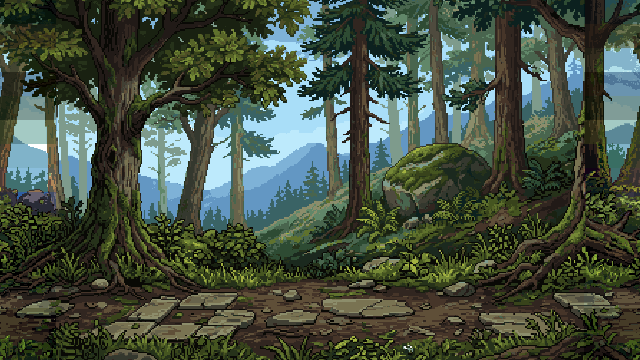
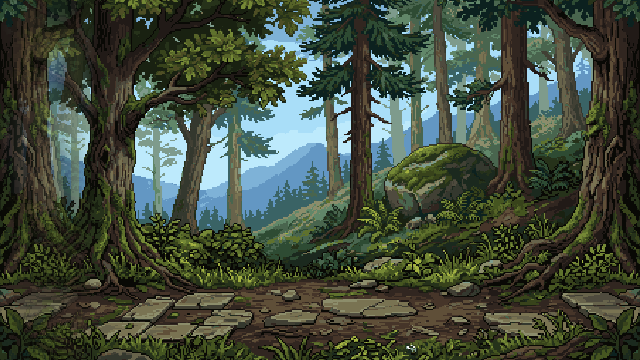
v0.96: каркас главы 2 — скала днём, лес (4 комнаты, боковой лагерь гоблинов), ворота деревни; гоблины-заглушки (воин, прыгун, стрелок), дневной свет
Claude-Session: https://claude.ai/code/session_01NZaKJV7VXAQHZfGwN3MbH5

diff --git a/src/config.js b/src/config.js
@@ -1,7 +1,7 @@
 // Все числа, которые влияют на ощущение боя, собраны здесь.
 // Время — в секундах, расстояния — в пикселях игрового экрана (320×180).
 
-export const VERSION = 'v0.95';
+export const VERSION = 'v0.96';
 
 export const CONFIG = {
   width: 320,
@@ -288,6 +288,31 @@ export const ENEMY_TYPES = {
     heights: ['high', 'mid', 'low'], volleyChance: 0, minDist: 60, maxDist: 170, arrowSpeed: 240,
     guardChance: 0.3, reaction: 0.12,
     colors: { armor: '#5a5a3e', armorDark: '#3b3b2a', tabard: '#3b4a2e', helm: '#b88a68', visor: '#14101e', blade: '#8a8478', hilt: '#6b4532', boots: '#2e2420', bandana: '#4a5a3a', mask: '#3b3b2a' },
+  },
+  // ---------- глава 2: гоблины (описание друга владельца, 17.10; пока фигурой кодом, спрайты — после выбора облика) ----------
+  // воин (оранжевый): замах — удар мечом
+  gobWarrior: {
+    kind: 'melee', name: 'Гоблин-воин', shortName: 'Гоблин', hp: 3, damage: 1, aggro: 140, reach: 28, speed: 50, lunge: 5, weapon: 15, goblin: true,
+    windup: 0.6, comboWindup: 0.45, gap: 0.1, recover: 0.9, wait: [0.6, 1.0],
+    combos: [['mid'], ['high'], ['mid', 'low'], ['high', 'mid']],
+    guardChance: 0.35, reaction: 0.12,
+    colors: { armor: '#8a5a32', armorDark: '#5a3a22', tabard: '#6a4a2a', helm: '#d8743a', visor: '#2a1408', blade: '#a09080', hilt: '#4a3020', boots: '#3a2a1a', bandana: '#6a4a2a', mask: '#d8743a' },
+  },
+  // прыгун (зелёный): с кинжалом, быстрые выпады-прыжки
+  gobJumper: {
+    kind: 'melee', name: 'Гоблин-прыгун', shortName: 'Прыгун', hp: 2, damage: 1, aggro: 160, reach: 26, speed: 78, lunge: 16, weapon: 9, goblin: true,
+    windup: 0.42, comboWindup: 0.32, gap: 0.08, recover: 0.7, wait: [0.4, 0.8],
+    combos: [['low'], ['mid'], ['low', 'mid'], ['high']],
+    guardChance: 0.15, reaction: 0.1,
+    colors: { armor: '#4e7a3a', armorDark: '#2e4a22', tabard: '#3a2a1e', helm: '#6aa04a', visor: '#1a2a10', blade: '#c3ccd6', hilt: '#4a3020', boots: '#2e2a1e', bandana: '#3a2a1e', mask: '#6aa04a' },
+  },
+  // стрелок (жёлтый): рогатка — заряжает камень и после паузы стреляет
+  gobShooter: {
+    kind: 'archer', name: 'Гоблин-стрелок', shortName: 'Стрелок', hp: 2, damage: 1, aggro: 220, goblin: true,
+    windup: 1.3, comboWindup: 1.3, recover: 2.0, wait: [0.6, 1.0],
+    heights: ['high', 'mid', 'low'], volleyChance: 0, minDist: 70, maxDist: 180, arrowSpeed: 200,
+    guardChance: 0.2, reaction: 0.12,
+    colors: { armor: '#7a6a3a', armorDark: '#4a4222', tabard: '#5a4a2a', helm: '#d8c04a', visor: '#2a2408', blade: '#8a7a5a', hilt: '#6b4532', boots: '#2e2420', bandana: '#5a4a2a', mask: '#d8c04a' },
   },
   // тренировочное чучело: не умирает, медленно и без урона показывает удары на трёх высотах
   dummy: {
@@ -988,6 +1013,45 @@ export const ROOMS = {
         finish: { finishTitle: 'Конец главы 1 (черновик)', finishText: 'Найт стоит перед замком. Внизу — лес и дорога к деревне. Продолжение — в главе 2.' },
         enemies: [{ type: 'boss', dx: 120, z: 20 }] },
     ],
+  },
+  // ---------- глава 2 (каркас, владелец 17.10): днём; скала с титульного вида → лес → ворота деревни ----------
+  cliff: {
+    name: 'Скала над долиной', chapter: 2, tiles: 'forest', tileCount: 1, far: 'assets/backgrounds/cliff/far.png', length: 320, day: true, ceiling: false, torches: [],
+    edges: { right: { to: 'forest1', x: 30, name: 'Тропа в лес' } },
+    decor: [{ type: 'spot', x: 120, look: 'look_cliff', name: 'вид на замок' }],
+  },
+  forest1: {
+    name: 'Лесной склон', chapter: 2, tiles: 'forest', tileCount: 1, length: 720, day: true, ceiling: false, torches: [],
+    edges: { left: { to: 'cliff', x: 290, name: 'Скала' }, right: { to: 'forest2', x: 30, name: 'Поляна' } },
+    encounters: [
+      { x: 300, enemies: [{ type: 'gobWarrior', dx: 70, z: 18 }] },
+      { x: 560, enemies: [{ type: 'gobJumper', dx: 50, z: 26 }, { type: 'gobWarrior', dx: 100, z: 10 }] },
+    ],
+  },
+  forest2: {
+    name: 'Поляна', chapter: 2, tiles: 'forest', tileCount: 1, length: 640, day: true, ceiling: false, torches: [],
+    edges: { left: { to: 'forest1', x: 690, name: 'Лесной склон' }, right: { to: 'forest3', x: 30, name: 'Бурелом' } },
+    // боковая тропа — к лагерю гоблинов (шаг и затемнение, без проёма)
+    doors: [{ id: 'camp', x: 330, kind: 'none', stairs: true, to: 'forest_camp', toDoor: 'out', name: 'Тропа в сторону' }],
+    encounters: [{ x: 460, enemies: [{ type: 'merc', dx: 60, z: 20 }, { type: 'crossbow', dx: 160, z: 30 }] }],   // мародёры и в лесу
+  },
+  forest_camp: {
+    name: 'Лагерь гоблинов', chapter: 2, tiles: 'forest', tileCount: 1, length: 560, day: true, ceiling: false, torches: [],
+    doors: [{ id: 'out', x: 50, kind: 'none', stairs: true, to: 'forest2', toDoor: 'camp', name: 'Обратно на поляну' }],
+    props: [{ type: 'campfire', x: 300, z: 18, light: true }, { type: 'chest', id: 'gob', x: 500, z: 3, coins: 40 }],
+    encounters: [{ x: 260, enemies: [{ type: 'gobWarrior', dx: 60, z: 14 }, { type: 'gobJumper', dx: 110, z: 30 }, { type: 'gobShooter', dx: 200, z: 8 }] }],
+    // босс гоблинов — позже (шаман: призывает слабых скелетов)
+  },
+  forest3: {
+    name: 'Бурелом', chapter: 2, tiles: 'forest', tileCount: 1, length: 720, day: true, ceiling: false, torches: [],
+    edges: { left: { to: 'forest2', x: 610, name: 'Поляна' }, right: { to: 'village_gate', x: 30, name: 'К деревне' } },
+    encounters: [{ x: 380, enemies: [{ type: 'gobShooter', dx: 150, z: 8 }, { type: 'gobWarrior', dx: 50, z: 22 }, { type: 'gobJumper', dx: 90, z: 32 }] }],
+  },
+  village_gate: {
+    name: 'У деревни', chapter: 2, tiles: 'forest', tileCount: 1, length: 400, day: true, ceiling: false, torches: [],
+    edges: { left: { to: 'forest3', x: 690, name: 'Бурелом' } },
+    doors: [{ id: 'gate', x: 340, kind: 'none', stairs: true, to: 'village_gate', toDoor: 'gate', name: 'Ворота деревни', finish: true,
+      finishTitle: 'Глава 2 — каркас (черновик)', finishText: 'Рыцарь вышел к деревне, которую видно из замка. Дальше — деревня: люди, камео, вещи.' }],
   },
   // покои принцессы (владелец, v0.95): наверху винтовой лестницы, после победы над боссом — посмотреть, лорный момент.
   // Широкие окна с видом; у большого окна (E) — конец главы: Найт возвращается к порталу.

diff --git a/src/main.js b/src/main.js
@@ -1105,8 +1105,20 @@ function finish(d = {}) {
     `${d.finishText ?? 'Рыцарь поднимается на второй этаж — его мы сделаем дальше.'}\nСундуки: ${found} из ${chests.length} · тайники: ${secrets} из ${SECRETS.length} · время: ${time} · монет: ${game.coins}\nИдеальных парирований: ${s.perfect} · блоков: ${s.block} · уклонов: ${s.dodged} · пропущено: ${s.hit} · контратак: ${s.counter}`,
     'R — пройти заново');
   ui.overlayText.classList.add('controls');
-  setMenu([['Пройти заново', startNew], ['Главное меню', toTitle]]);
+  setMenu([...(game.flags.chapter1_done && !ROOMS[game.room]?.chapter ? [['Глава 2 (черновик) →', startChapter2]] : []), ['Пройти заново', startNew], ['Главное меню', toTitle]]);
   hint('');
+}
+// глава 2 (каркас, v0.96): рыцарь — на скале с титульного вида, днём; вещи и снаряжение — с собой
+function startChapter2() {
+  hideOverlay();
+  ui.overlayText.classList.remove('controls');
+  ui.reportBtn.hidden = true;
+  game.flags.chapter = 2;
+  game.mode = 'play';
+  game.player.hp = CONFIG.playerHp;
+  loadRoom('cliff', { x: 60, z: 10, facing: 1 });
+  callout('Глава 2 — Спуск', 'perfect');
+  save();
 }
 
 // ---------- лёгкий режим ----------
@@ -1310,6 +1322,7 @@ const ADMIN_POINTS = [
   { name: 'Перед балконом', room: 'balcony', x: 60, steps: ['wake', 'tutorial', 'ilia'], bag: ['sword_old', 'rapier', 'map'] },
   { name: 'Второй этаж', room: 'landing2', x: 200, steps: ['wake', 'tutorial', 'ilia', 'commander'], bag: ['sword_old', 'rapier', 'map'] },
   { name: 'Третий этаж', room: 'landing3', x: 180, steps: ['wake', 'tutorial', 'ilia', 'commander'], bag: ['sword_old', 'rapier', 'map'] },
+  { name: 'Глава 2: скала', room: 'cliff', x: 60, steps: ['wake', 'tutorial', 'ilia', 'ataman', 'commander', 'keyguard', 'boss'], bag: ['sword_old', 'rapier', 'map', 'broken_mask'], flags: { chapter1_done: true, chapter: 2, ending: 'execution', done_boss: true } },
   { name: 'Перед боссом (башня)', room: 'tower', x: 120, steps: ['wake', 'tutorial', 'ilia', 'ataman', 'commander', 'keyguard'], bag: ['sword_old', 'rapier', 'map', 'key_tower'] },
 ];
 const ADMIN_LOOT = ['sword_old', 'rapier', 'dagger', 'map', 'journal', 'key_tower', 'diamond_ace', 'broken_mask', 'rosary', 'mar_scarf', 'mar_jacket', 'mar_boots', 'spell_bolt', 'skill_triple', 'skill_cleave', 'golden_skull', 'silver_cup',
@@ -1336,7 +1349,7 @@ function adminLoad(data) {
 const adminSpot = id => Math.max(40, Math.min(ROOMS[id].length - 40, (ROOMS[id].doors?.[0]?.x ?? 40) + 24));
 
 function adminPoint(pt) {
-  const flags = Object.assign({}, ...pt.steps.map(s => STORY_FLAGS[s]));
+  const flags = Object.assign({}, ...pt.steps.map(s => STORY_FLAGS[s]), pt.flags ?? {});
   const cleared = ALL_ENCOUNTERS.filter(({ enc }) => enc.story && flags['done_' + enc.story]).map(({ key }) => key);
   const unlocked = ['sword', ...(pt.bag.includes('rapier') ? ['rapier'] : [])];
   adminLoad({ version: VERSION, room: pt.room, x: pt.x, z: 10, hp: CONFIG.playerHp, coins: Math.max(game.coins ?? 0, 100),
@@ -4861,12 +4874,13 @@ function sceneLights() {
 }
 // тёмные комнаты (камера, привал) — тоже живым светом (v0.67): почти ночь, светят портал, костёр и выход
 const DARK_AMBIENT = [0.16, 0.14, 0.2];
+const DAY_AMBIENT = [1.02, 1, 0.96];
 function applyLight() {
   if (!light) return;
   const r = game.mode === 'title' || game.mode === 'map' ? null : room();
   if (!r) { light.off(); return; }
   // тёмная комната с ambient (v0.80, библиотека): полутьма видна и без свечей, каждая зажжённая свеча (lights) светлеет
-  let amb = r.dark ? (r.ambient ?? DARK_AMBIENT) : AMBIENT;
+  let amb = r.day ? DAY_AMBIENT : r.dark ? (r.ambient ?? DARK_AMBIENT) : AMBIENT;   // глава 2 — день
   if (r.ambient) { const lit = (r.props ?? []).filter(pr => pr.lights && game.flags[pr.lights]).length; amb = amb.map(v => Math.min(0.62, v + lit * 0.045)); }
   light.draw(sceneLights(), amb, true);
 }

diff --git a/src/story/dialogues.js b/src/story/dialogues.js
@@ -121,6 +121,7 @@ export const DIALOGUES = {
     { who: 'boss', text: '[черновик] …' },
     { who: 'boss', text: '[черновик] Тогда пусть дверь будет открыта.', choices: [{ text: 'Отпустить его.' }] },
   ],
+  look_cliff: [{ who: 'knight', text: '[черновик] Замок. Отсюда, при свете дня, он кажется просто старым. Внизу — лес и дорога к деревне.' }],
   // покои принцессы (v0.95; тексты — черновики, перепишет владелец)
   look_princess_view: [
     { who: 'knight', text: '[черновик] Долина под луной. Отсюда она смотрела на мир — и на дорогу, по которой уехала.' },

diff --git a/docs/design.md b/docs/design.md
@@ -151,6 +151,13 @@
 
 **Взаимодействия (новые глаголы):** осмотреть (есть, E), сесть (есть, места отдыха), **взять** (мелочь в сумку: записки, ключи, находки), **потрогать / использовать** (рычаг, колокол, свеча, книга, шкатулка — что-то меняется в комнате), позже — **нести** (факел и т. п.). Под каждое — короткая анимация рыцаря: присесть и поднять, протянуть руку, читать.
 
+## v0.96: каркас главы 2 (владелец, 17.10)
+
+- После «Конца главы 1» — кнопка **«Глава 2 (черновик) →»** (и точка в админке «Глава 2: скала»): рыцарь — на скале с титульного вида, днём (`cliff`, дальний план — `assets/backgrounds/cliff/far.png` из дневного замка), вещи с собой.
+- Лес — тайлы `forest` (PixelLab, `tools/pixellab_room.py base forest`; стык — смешение краёв), день — `day: true` (свет без темноты, `DAY_AMBIENT`). Комнаты: `forest1` Лесной склон → `forest2` Поляна (боковая тропа к `forest_camp` Лагерь гоблинов) → `forest3` Бурелом → `village_gate` У деревни (конец каркаса).
+- **Гоблины** (описание друга владельца): `gobWarrior` — оранжевый, замах-удар мечом; `gobJumper` — зелёный, быстрые выпады с кинжалом; `gobShooter` — жёлтый, рогатка: заряжает и стреляет после паузы. Пока фигурой кодом своего цвета; шаман (фиолетовый, призывает слабых скелетов) — со спрайтами. Концепты — `tools/pixellab_ch2.py` (лист отправлен владельцу на выбор). В лесу встречаются и мародёры.
+- Бот — `tools/bots/chapter2.cjs`.
+
 ## v0.95: конец главы 1, маска, очки путей (владелец, 16–17.10)
 
 - **Очки путей:** выбор с `path` — +1 (`points` у варианта — другое число); крупное событие — +5. Игроку не видны: `flags.path_*` в сохранении, в админке (F2) — строка «Очки путей». Мирный исход — +5 пилигриму, казнь — +5 лидеру среди призрака, монарха, эгоиста (ничья — последний выбранный; очков нет — эгоисту).
